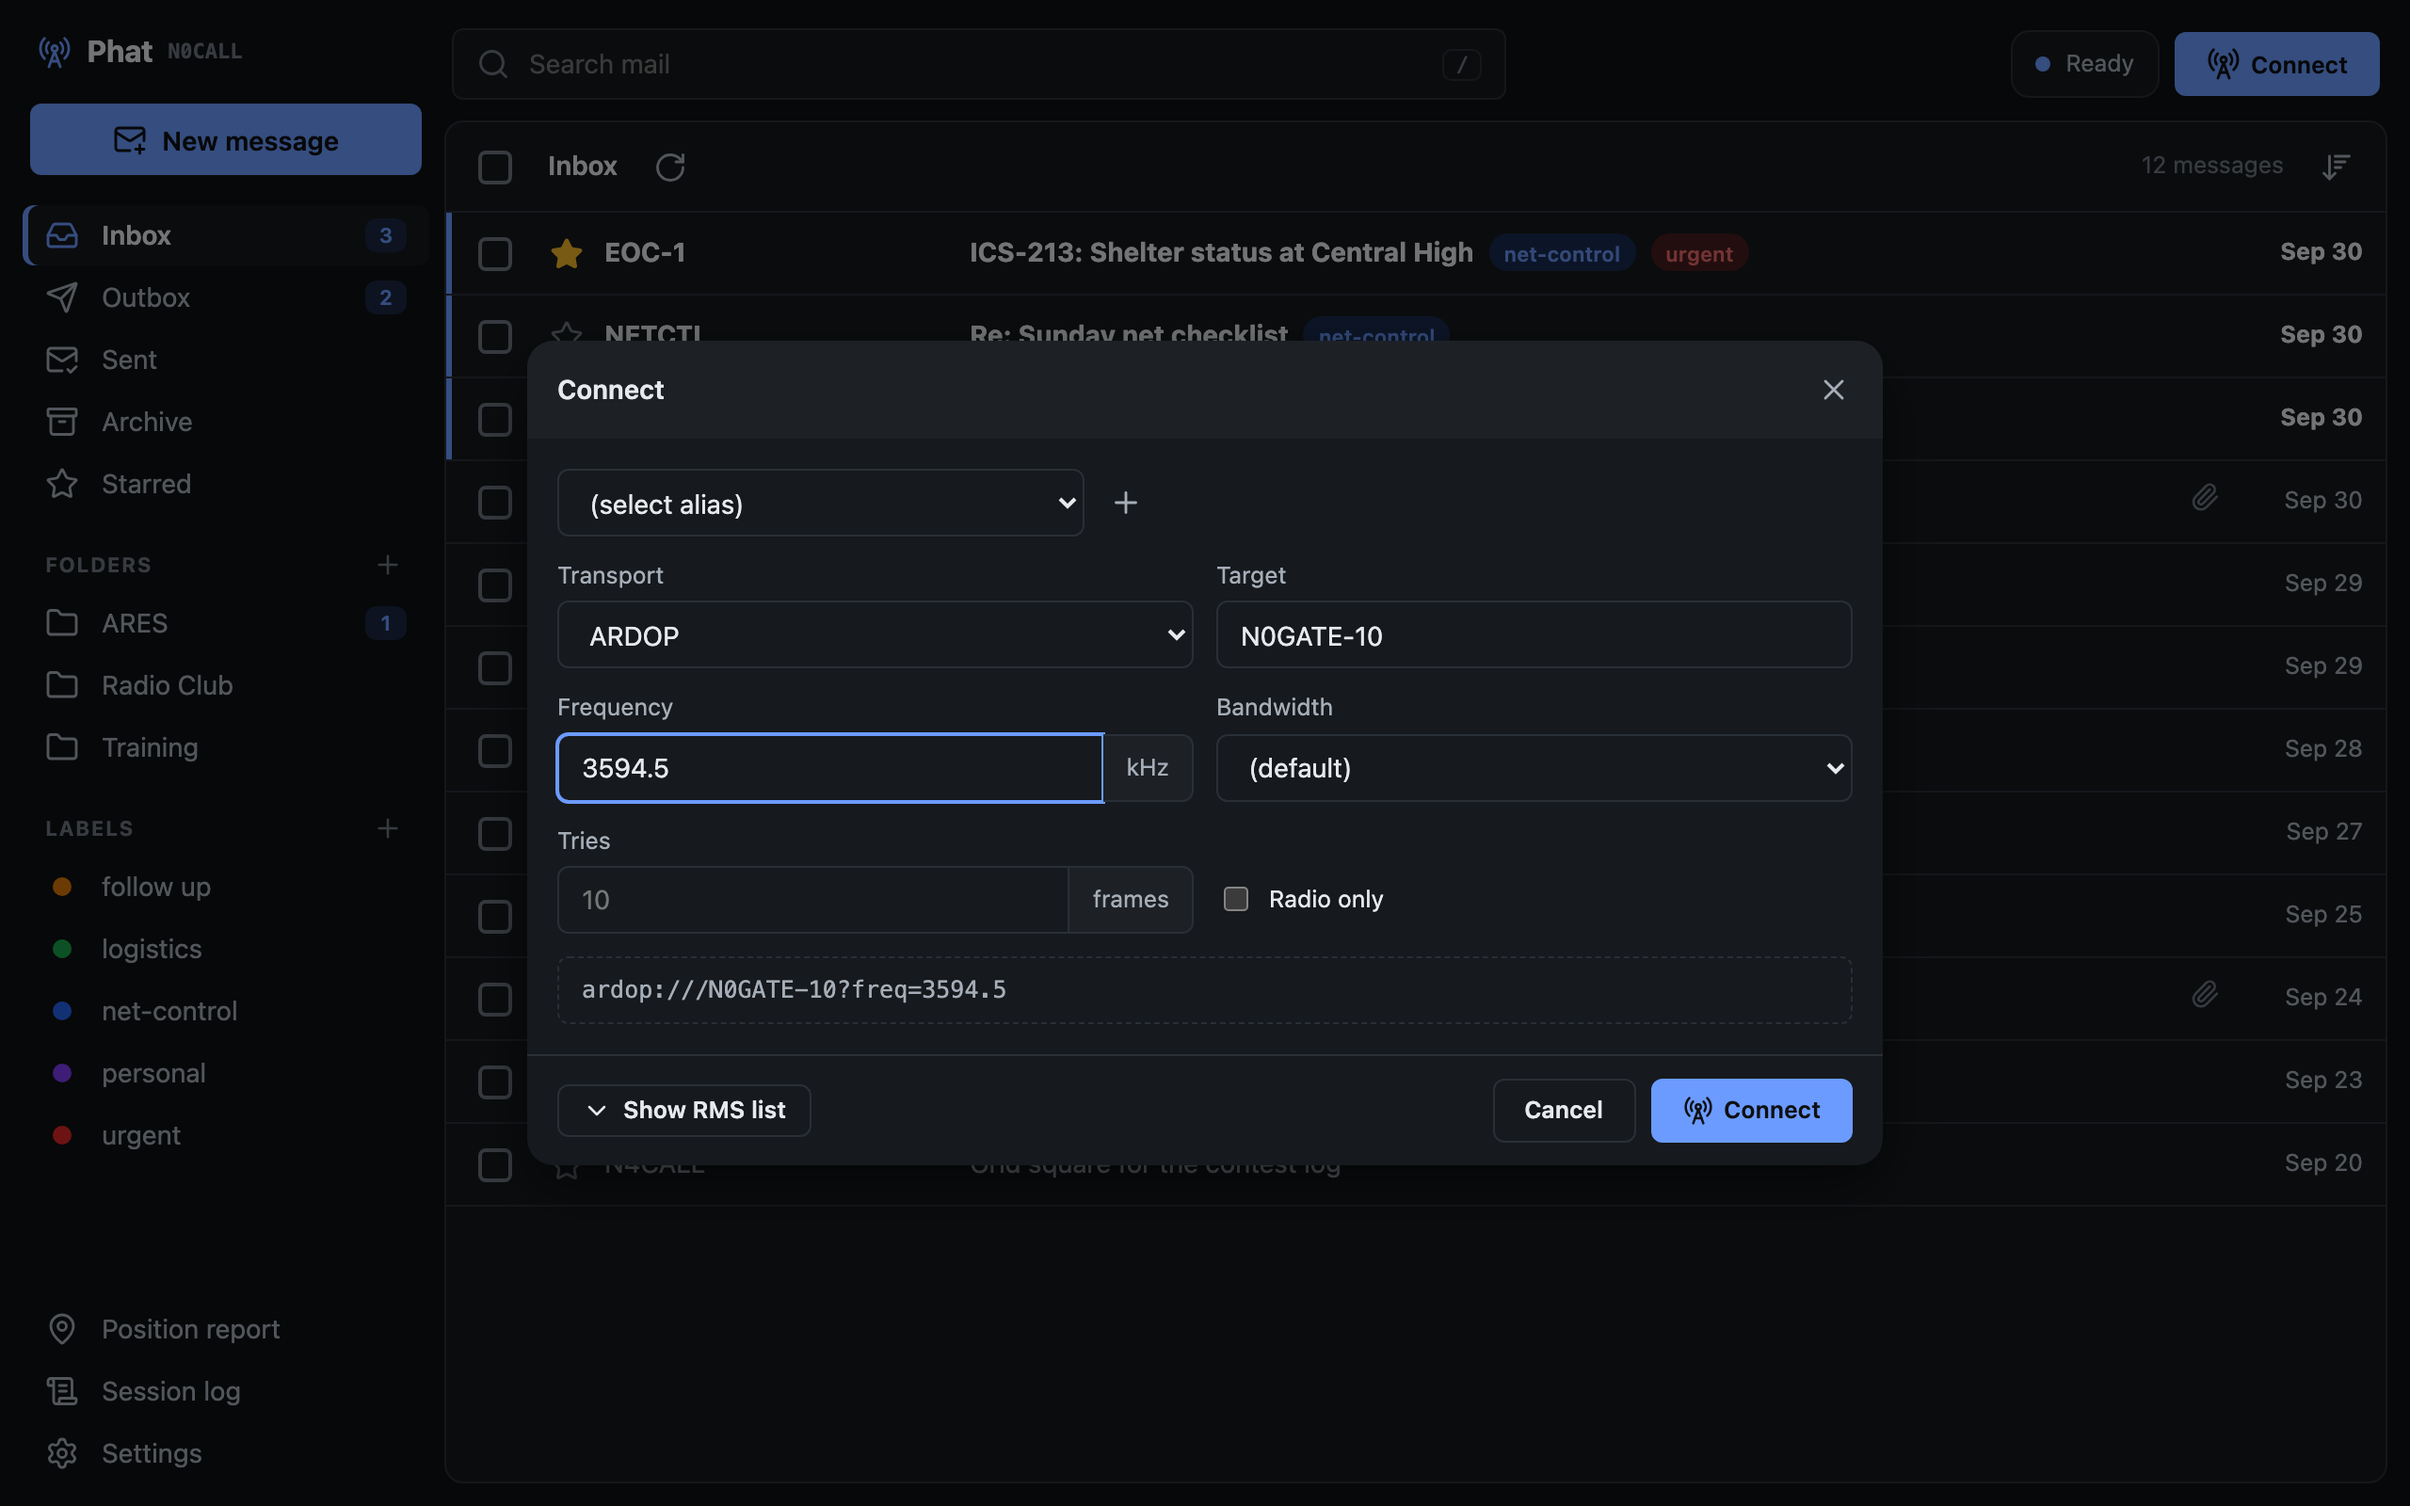
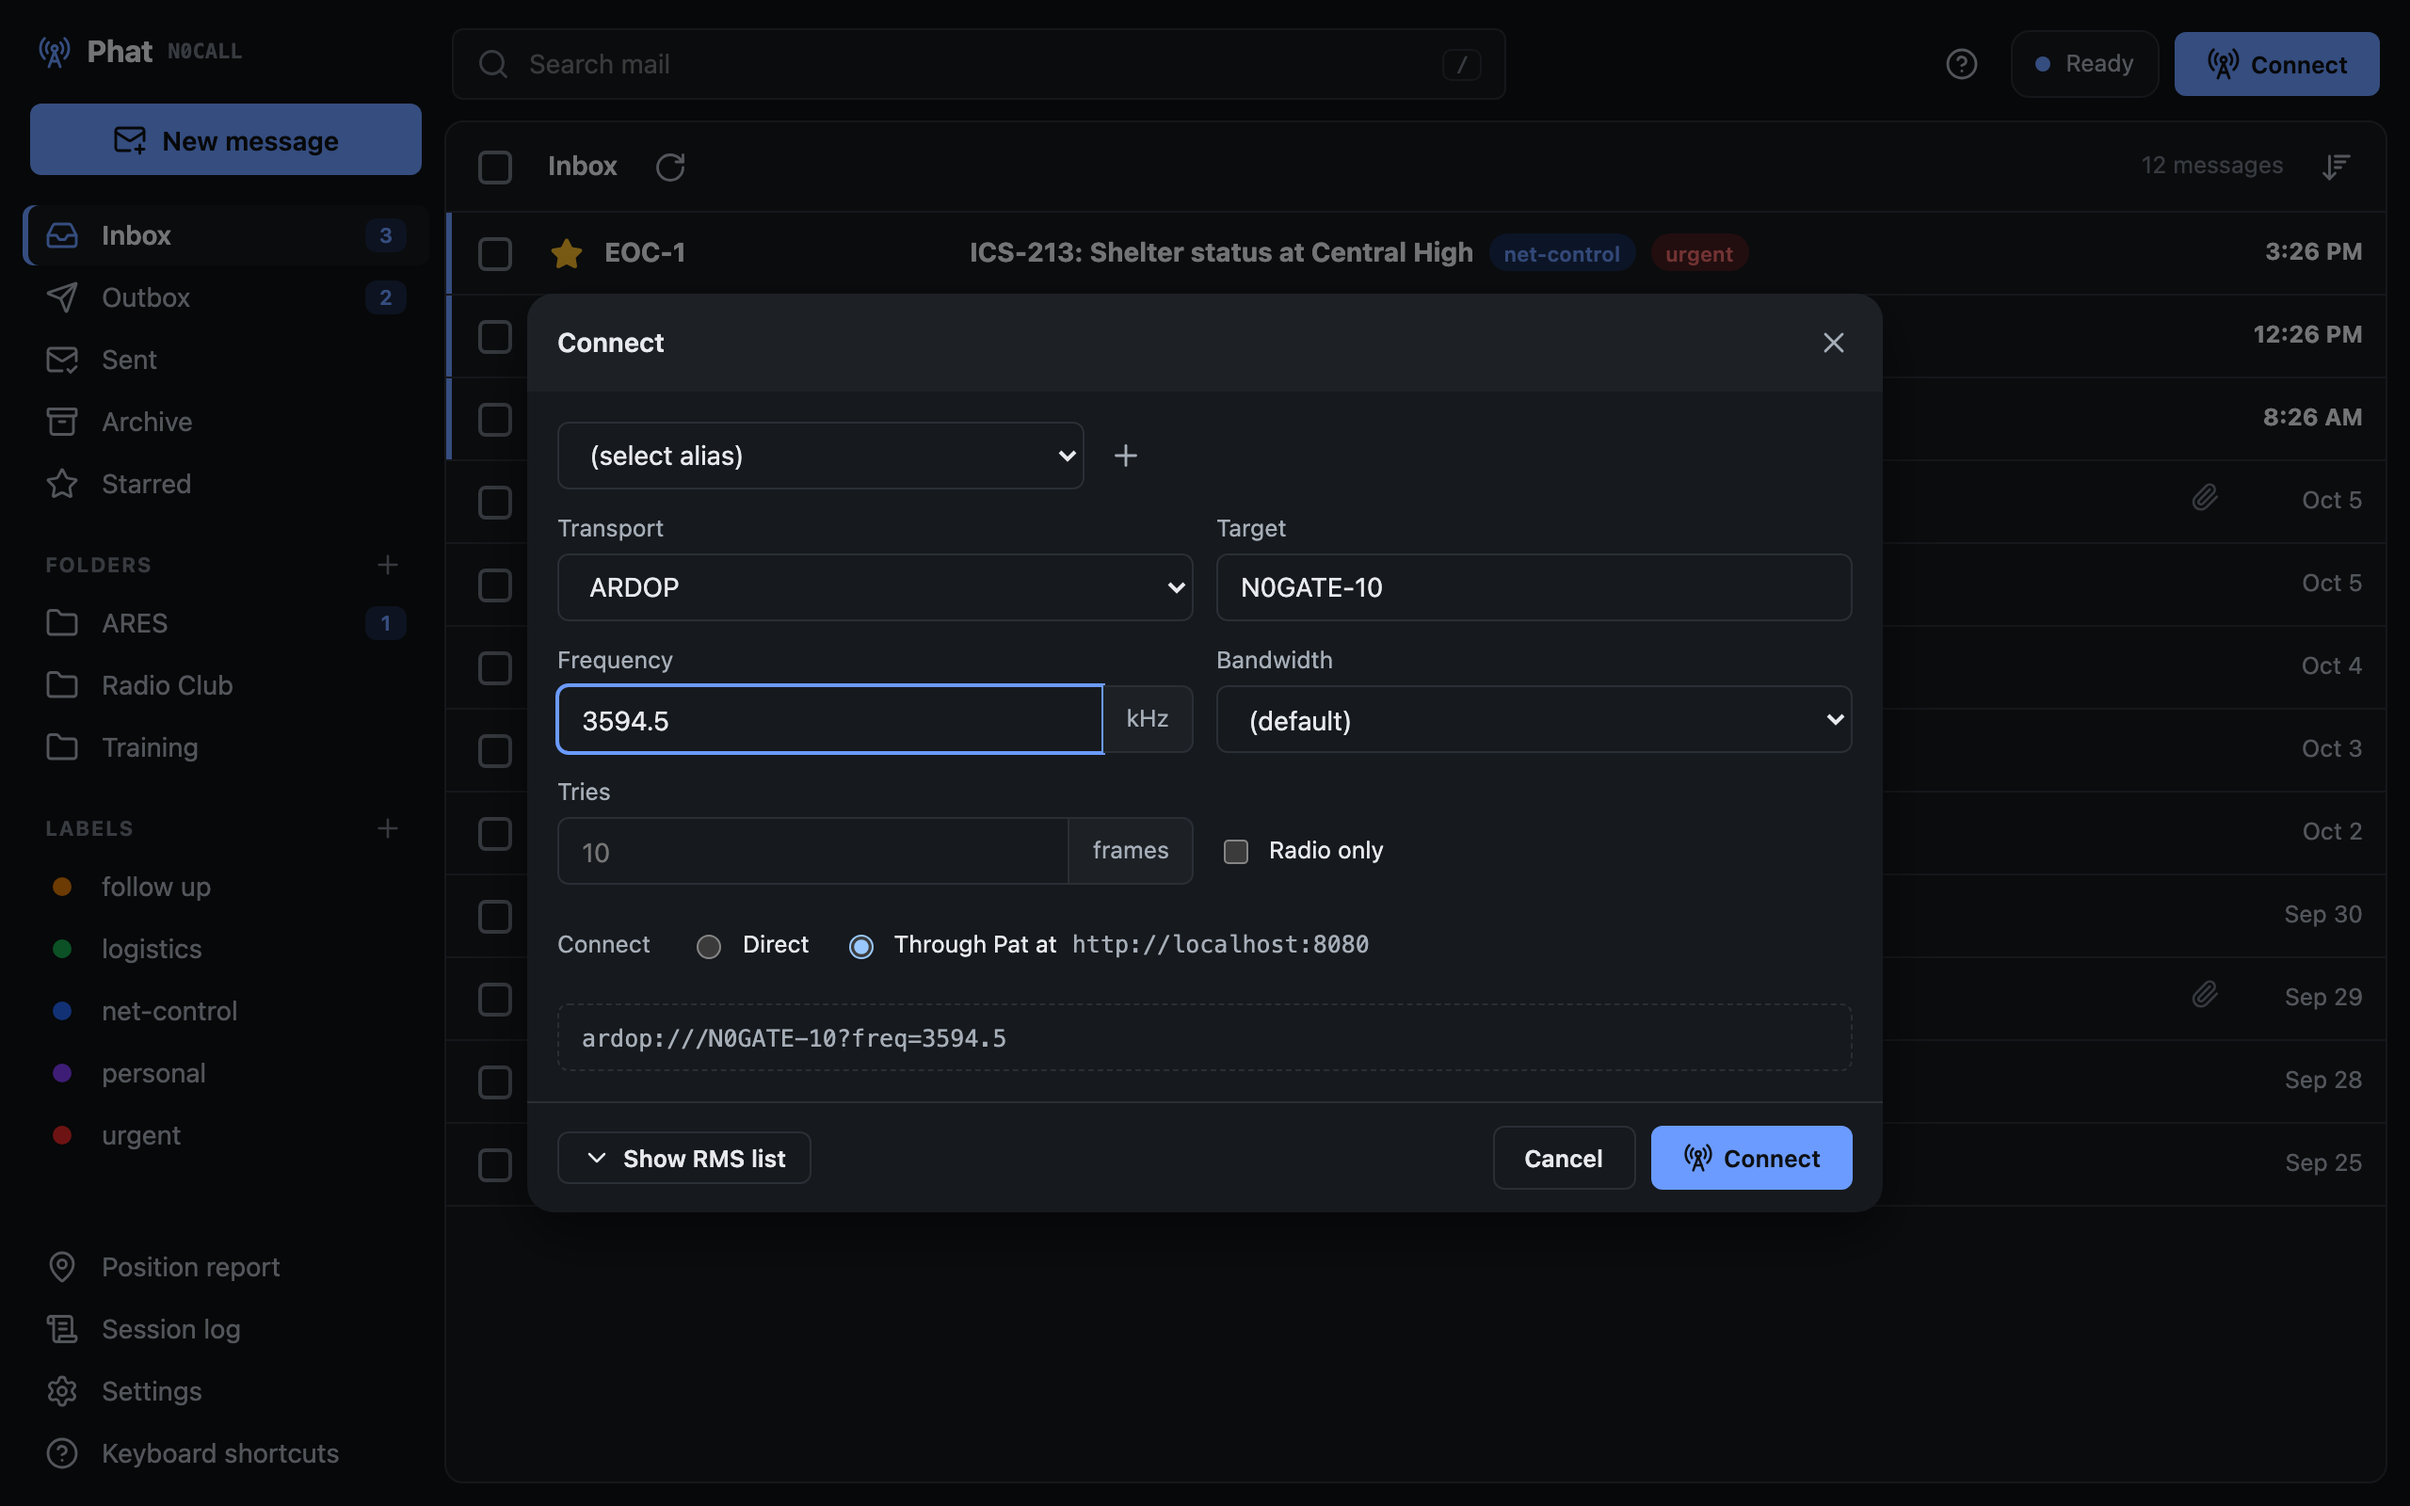
README: Connect screenshot shows Direct and Through Pat

diff --git a/README.md b/README.md
@@ -171,7 +171,7 @@ On a phone the keys need a hardware keyboard, Bluetooth or USB. The on-screen ke
 Connect opens the connection dialog. Pick a transport (telnet, ARDOP, VARA HF and FM, PACTOR, AX.25), a gateway from the RMS list or by callsign, and the transport's options. A frequency is given in kHz. If Phat can't tune the radio to it (no rig control configured, or the rig refused), it strikes the frequency through and leaves it out of the connect URL. The + button saves the current settings as an alias, and the trash button beside an alias deletes it.
 
 <p align="center">
-  <img src="docs/screenshot-connect.png" alt="The Connect dialog set for ARDOP to N0GATE-10 on 3594.5 kHz, with bandwidth, tries, and the resulting connect URL" width="100%">
+  <img src="docs/screenshot-connect.png" alt="The Connect dialog set for ARDOP to N0GATE-10 on 3594.5 kHz, with bandwidth, tries, Direct or Through Pat at http://localhost:8080, and the resulting connect URL" width="100%">
   <br><em>Connect</em>
 </p>
 
